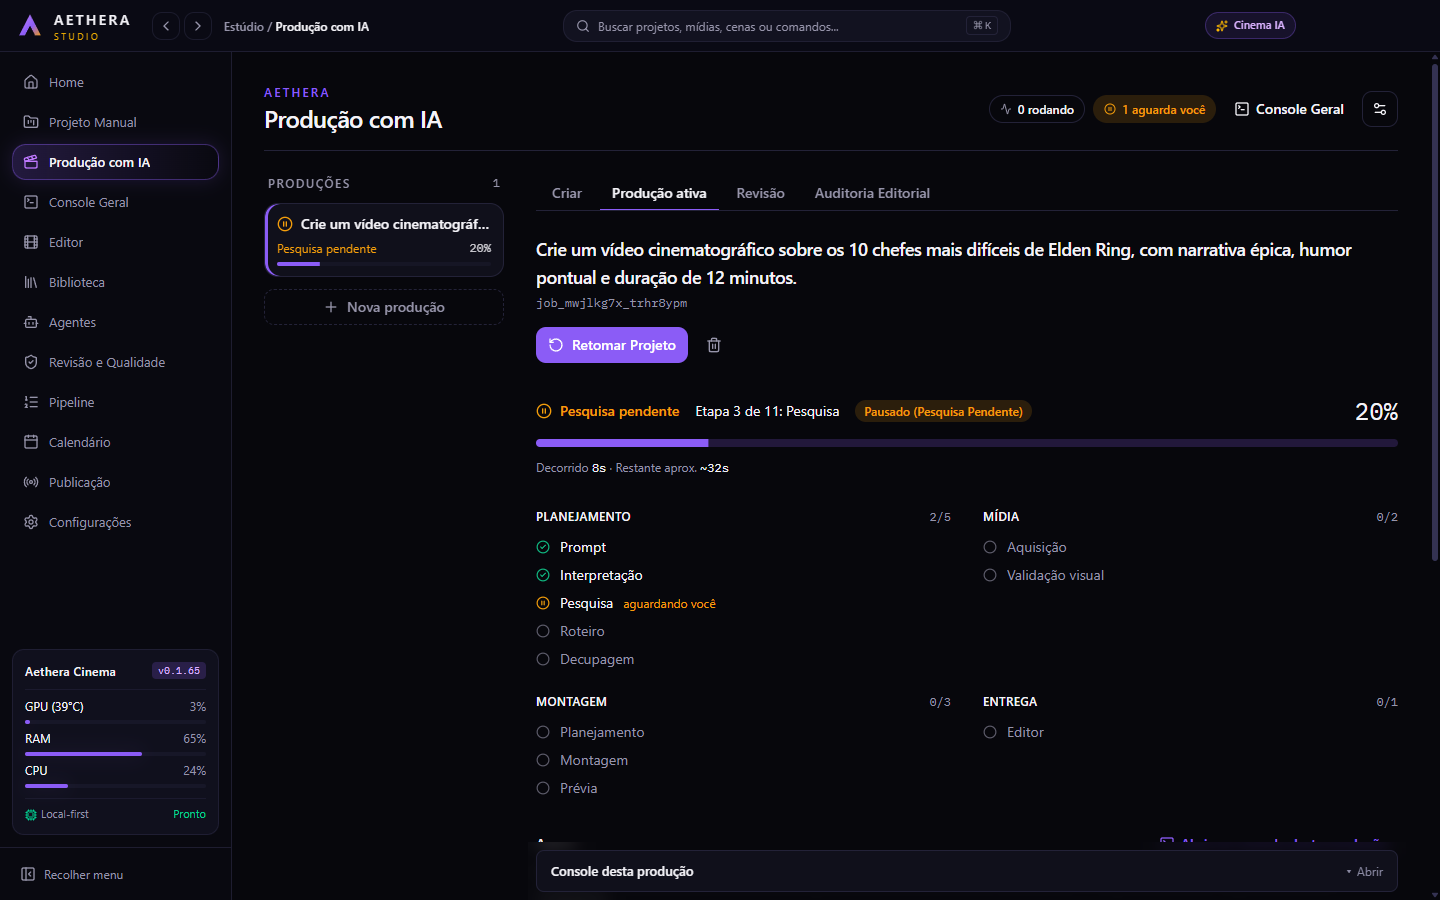
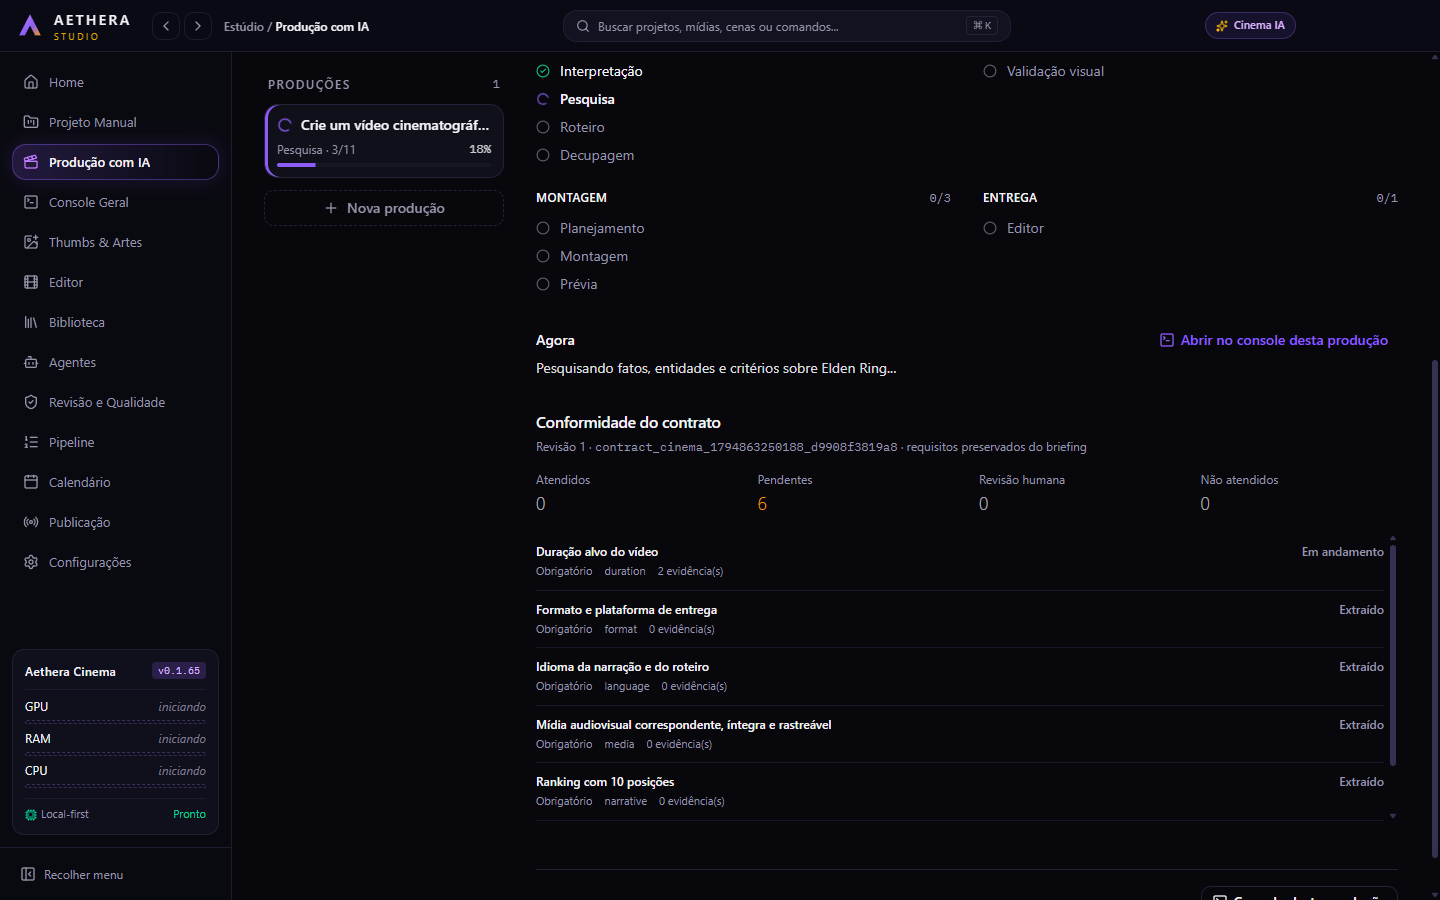
feat(aethera): open project console in a modal instead of a sticky dock
The sticky bottom dock covered the production content. The project
console now opens in a Dialog from 'Console desta produção', 'Abrir no
console desta produção' and 'Ver erro no console', already expanded and
scoped to the selected production.

diff --git a/packages/desktop-shared/src/renderer/src/features/video/CinemaDirectorPanel.tsx b/packages/desktop-shared/src/renderer/src/features/video/CinemaDirectorPanel.tsx
@@ -53,6 +53,7 @@ import { Badge } from '@/components/ui/badge';
 import { Button } from '@/components/ui/button';
 import { Collapsible, CollapsibleContent, CollapsibleTrigger } from '@/components/ui/collapsible';
 import { ConfirmDialog } from '@/components/ui/confirm-dialog';
+import { Dialog, DialogContent, DialogDescription, DialogHeader, DialogTitle } from '@/components/ui/dialog';
 import { Field, Input, Select, Textarea } from '@/components/ui/field';
 import { Popover, PopoverContent, PopoverDescription, PopoverHeader, PopoverTitle, PopoverTrigger } from '@/components/ui/popover';
 import { Progress } from '@/components/ui/progress';
@@ -409,7 +410,7 @@ export function CinemaDirectorPanel() {
   const [readyExtraCount, setReadyExtraCount] = useState(0);
   const [workspaceTab, setWorkspaceTab] = useState<WorkspaceTab>('criar');
   const [reviewTab, setReviewTab] = useState<ReviewTab>('storyboard');
-  const [consoleOpenNonce, setConsoleOpenNonce] = useState(0);
+  const [projectConsoleOpen, setProjectConsoleOpen] = useState(false);
   const [ideaUndo, setIdeaUndo] = useState<{ prompt: string; title: string } | null>(null);
   const [confirmMotionAll, setConfirmMotionAll] = useState(false);
   const [advancedOpen, setAdvancedOpen] = useState(false);
@@ -1072,10 +1073,7 @@ export function CinemaDirectorPanel() {
   }
 
   function openProjectConsole() {
-    setConsoleOpenNonce((value) => value + 1);
-    window.requestAnimationFrame(() =>
-      document.getElementById('cinema-project-console')?.scrollIntoView({ block: 'end', behavior: 'smooth' }),
-    );
+    setProjectConsoleOpen(true);
   }
 
   function applyIdea(payload: AppliedTrendIdeaPayload, ideaTitle: string) {
@@ -2009,21 +2007,25 @@ export function CinemaDirectorPanel() {
             </TabsContent>
           </Tabs>
 
-          {/* Project console dock: only events of the selected production */}
+          {/* Project console: opens in a modal, only events of the selected production */}
           {selectedKey && (
-            <section
-              id="cinema-project-console"
-              aria-label="Console desta produção"
-              className="sticky bottom-0 z-10 -mx-2 max-h-[45vh] overflow-y-auto bg-background/95 px-2 pb-2 backdrop-blur supports-[backdrop-filter]:bg-background/80"
-            >
-              <ProductionConsoleAccordion
-                key={`${selectedKey}:${consoleOpenNonce}`}
-                jobId={selectedKey}
-                title="Console desta produção"
-                defaultOpen={consoleOpenNonce > 0}
-              />
-            </section>
+            <div className="mt-6 flex justify-end border-t border-border pt-4">
+              <Button type="button" variant="outline" size="sm" onClick={openProjectConsole}>
+                <SquareTerminal aria-hidden /> Console desta produção
+              </Button>
+            </div>
           )}
+          <Dialog open={projectConsoleOpen && Boolean(selectedKey)} onOpenChange={setProjectConsoleOpen}>
+            <DialogContent id="cinema-project-console" className="max-h-[88vh] overflow-y-auto sm:max-w-5xl">
+              <DialogHeader>
+                <DialogTitle>Console desta produção</DialogTitle>
+                <DialogDescription>Eventos, logs e erros apenas da produção selecionada, em tempo real.</DialogDescription>
+              </DialogHeader>
+              {selectedKey && (
+                <ProductionConsoleAccordion key={selectedKey} jobId={selectedKey} title="Eventos da produção" defaultOpen />
+              )}
+            </DialogContent>
+          </Dialog>
         </div>
       </div>
 

diff --git a/tests/e2e/aethera-production-ai-layout.spec.ts b/tests/e2e/aethera-production-ai-layout.spec.ts
@@ -127,15 +127,15 @@ test('Produção com IA — layout minimalista, consoles e acessibilidade', asyn
     }
     await expect(win.getByRole('heading', { name: 'Agora' })).toBeVisible();
 
-    // The rail lists the production with icon + text status; the project console is the dock, scoped to it.
+    // The rail lists the production with icon + text status; the project console opens in a modal, scoped to it.
     const job = win.locator('[data-production-job]').first();
     await expect(job).toBeVisible();
     await expect(job).toHaveAttribute('aria-current', 'true');
-    const dock = win.locator('#cinema-project-console');
-    await expect(dock.locator('[data-console-panel="job"]')).toHaveCount(1);
-    await expect(win.locator('[data-console-panel="general"]')).toHaveCount(0);
+    await expect(win.locator('[data-console-panel]')).toHaveCount(0);
     await win.screenshot({ path: join(shotsDir, '04-producao-ativa.png') });
     await win.getByRole('button', { name: /Abrir no console desta produção/ }).click();
+    const dock = win.getByRole('dialog', { name: 'Console desta produção' });
+    await expect(dock.locator('[data-console-panel="job"]')).toHaveCount(1);
     await expect(dock.locator('[data-console-panel="job"] > button')).toHaveAttribute('aria-expanded', 'true');
     // Quiet console: advanced filters and stage chips stay folded until asked for.
     const filtersToggle = dock.getByRole('button', { name: /^Filtros/ });
@@ -145,6 +145,8 @@ test('Produção com IA — layout minimalista, consoles e acessibilidade', asyn
     await expect(dock.getByLabel('Origem')).toBeVisible();
     await filtersToggle.click();
     await win.screenshot({ path: join(shotsDir, '05-console-do-projeto.png') });
+    await win.keyboard.press('Escape');
+    await expect(dock).toHaveCount(0);
 
     // Tabs are keyboard operable (Radix roving focus).
     const activeTab = win.getByRole('tab', { name: /Produção ativa/ });

diff --git a/docs/aethera/production-ai-shadcn-migration.md b/docs/aethera/production-ai-shadcn-migration.md
@@ -148,3 +148,8 @@ Pendências:
   Limpar) no rodapé; linhas sem badges com borda: nível só para aviso/erro, debug esmaecido, exit code só quando
   falha, duração e % nos detalhes. `aethera-console-ui.spec.ts` (opt-in) abre "Filtros" antes dos selects.
 
+
+### 7.2 Console do projeto em modal (2026-11-16)
+
+- O dock fixo no rodapé (`sticky bottom-0`, 45vh) saiu: cobria o conteúdo. "Console desta produção" agora é um botão no fim da página que abre um `Dialog` (`#cinema-project-console`, `sm:max-w-5xl`, 88vh) com o `ProductionConsoleAccordion` já aberto e só a produção selecionada. "Abrir no console desta produção" e "Ver erro no console" abrem o mesmo modal.
+- Verificação: `tsc` web OK, `eslint` OK, `npm run build:aethera` OK; `aethera-production-ai-layout.spec.ts` atualizado para o modal e aprovado numa cópia temporária que tolera o gate de pesquisa (o spec original falha antes, na linha 120, por mudança não commitada de outra sessão em `packages/cinema/src/analysis/media-providers/*`). Capturas `04` e `05` atualizadas.
